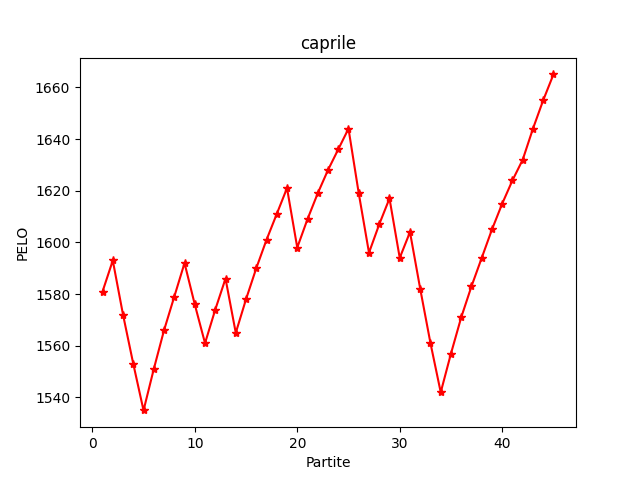
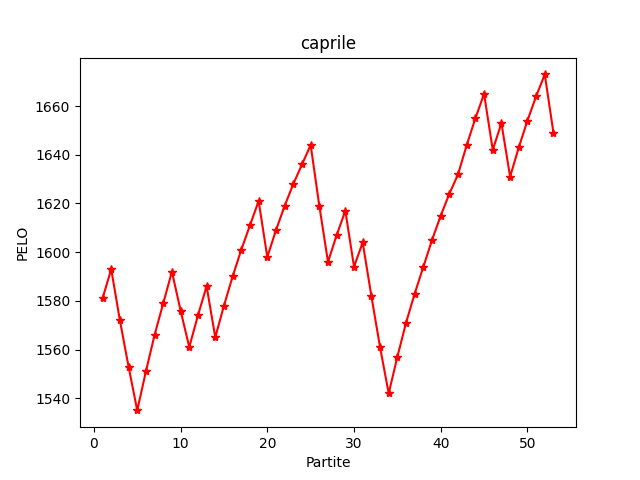
Add files via upload

diff --git a/index.htm b/index.htm
@@ -27,29 +27,29 @@
     <tr>
       <th>1</th>
       <td><a href='caprile.png'>caprile</a></td>
-      <td>1665</td>
-      <td>86</td>
-      <td>59</td>
-      <td>917</td>
-      <td>722</td>
+      <td>1649</td>
+      <td>94</td>
+      <td>64</td>
+      <td>1003</td>
+      <td>800</td>
     </tr>
     <tr>
       <th>2</th>
+      <td><a href='devigili.png'>devigili</a></td>
+      <td>1595</td>
+      <td>8</td>
+      <td>7</td>
+      <td>88</td>
+      <td>57</td>
+    </tr>
+    <tr>
+      <th>3</th>
       <td><a href='zontini.png'>zontini</a></td>
       <td>1593</td>
       <td>126</td>
       <td>68</td>
       <td>1273</td>
       <td>1211</td>
-    </tr>
-    <tr>
-      <th>3</th>
-      <td><a href='devigili.png'>devigili</a></td>
-      <td>1582</td>
-      <td>7</td>
-      <td>6</td>
-      <td>77</td>
-      <td>49</td>
     </tr>
     <tr>
       <th>4</th>
@@ -62,21 +62,21 @@
     </tr>
     <tr>
       <th>5</th>
+      <td><a href='castellani.png'>castellani</a></td>
+      <td>1501</td>
+      <td>241</td>
+      <td>98</td>
+      <td>2206</td>
+      <td>2462</td>
+    </tr>
+    <tr>
+      <th>6</th>
       <td><a href='romano.png'>romano</a></td>
       <td>1491</td>
       <td>4</td>
       <td>1</td>
       <td>38</td>
       <td>44</td>
-    </tr>
-    <tr>
-      <th>6</th>
-      <td><a href='castellani.png'>castellani</a></td>
-      <td>1489</td>
-      <td>232</td>
-      <td>95</td>
-      <td>2120</td>
-      <td>2365</td>
     </tr>
     <tr>
       <th>7</th>
